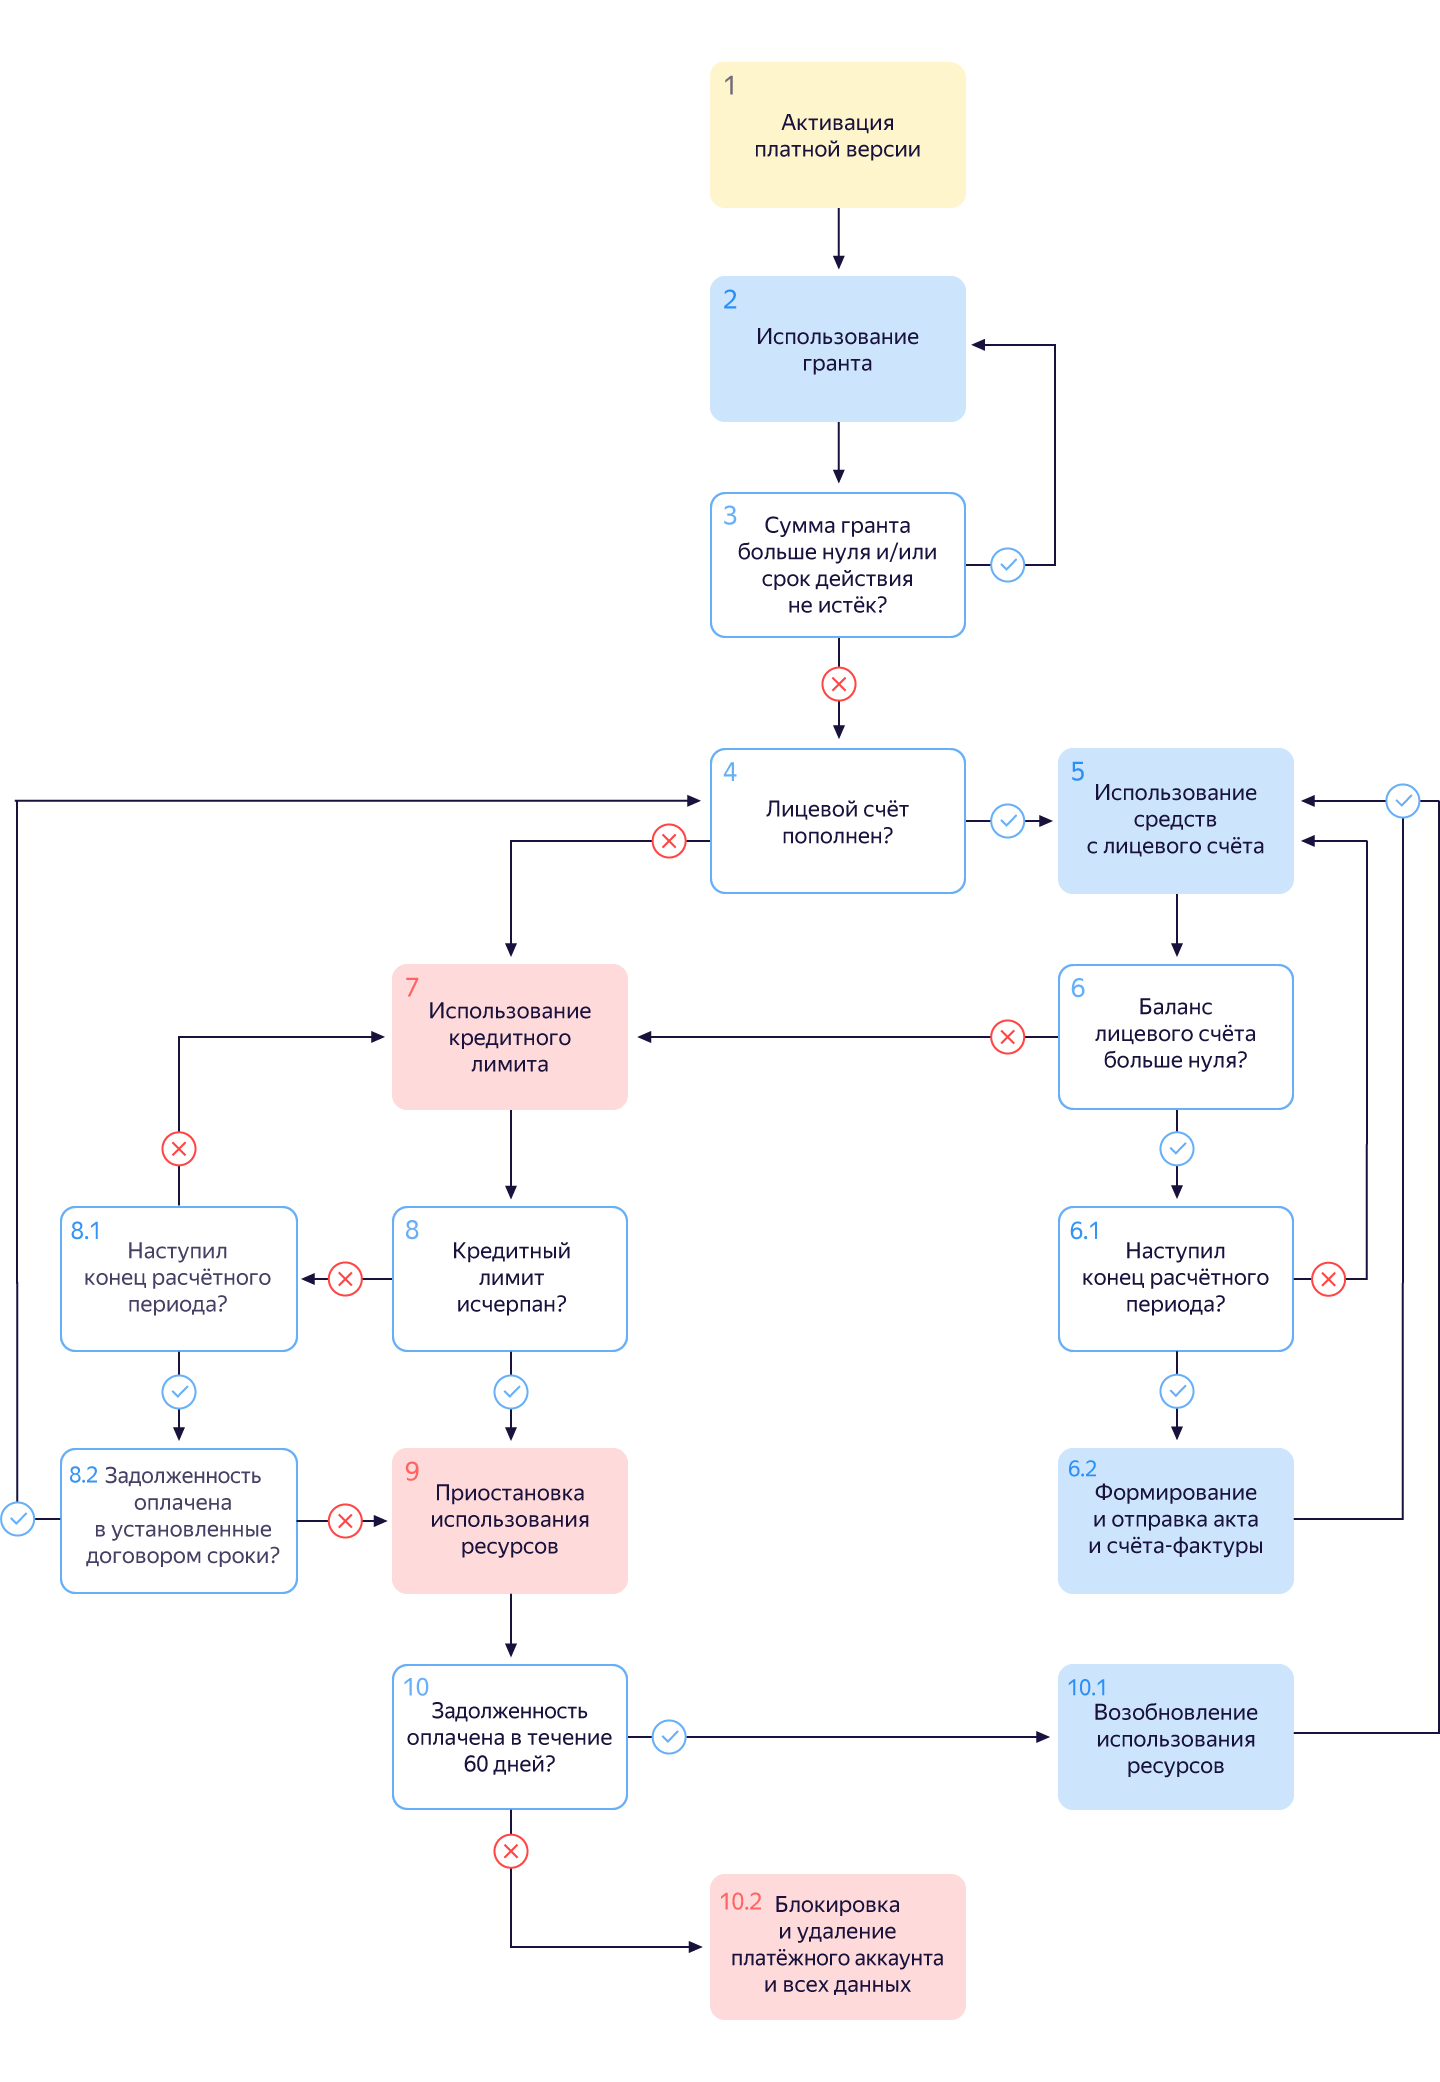
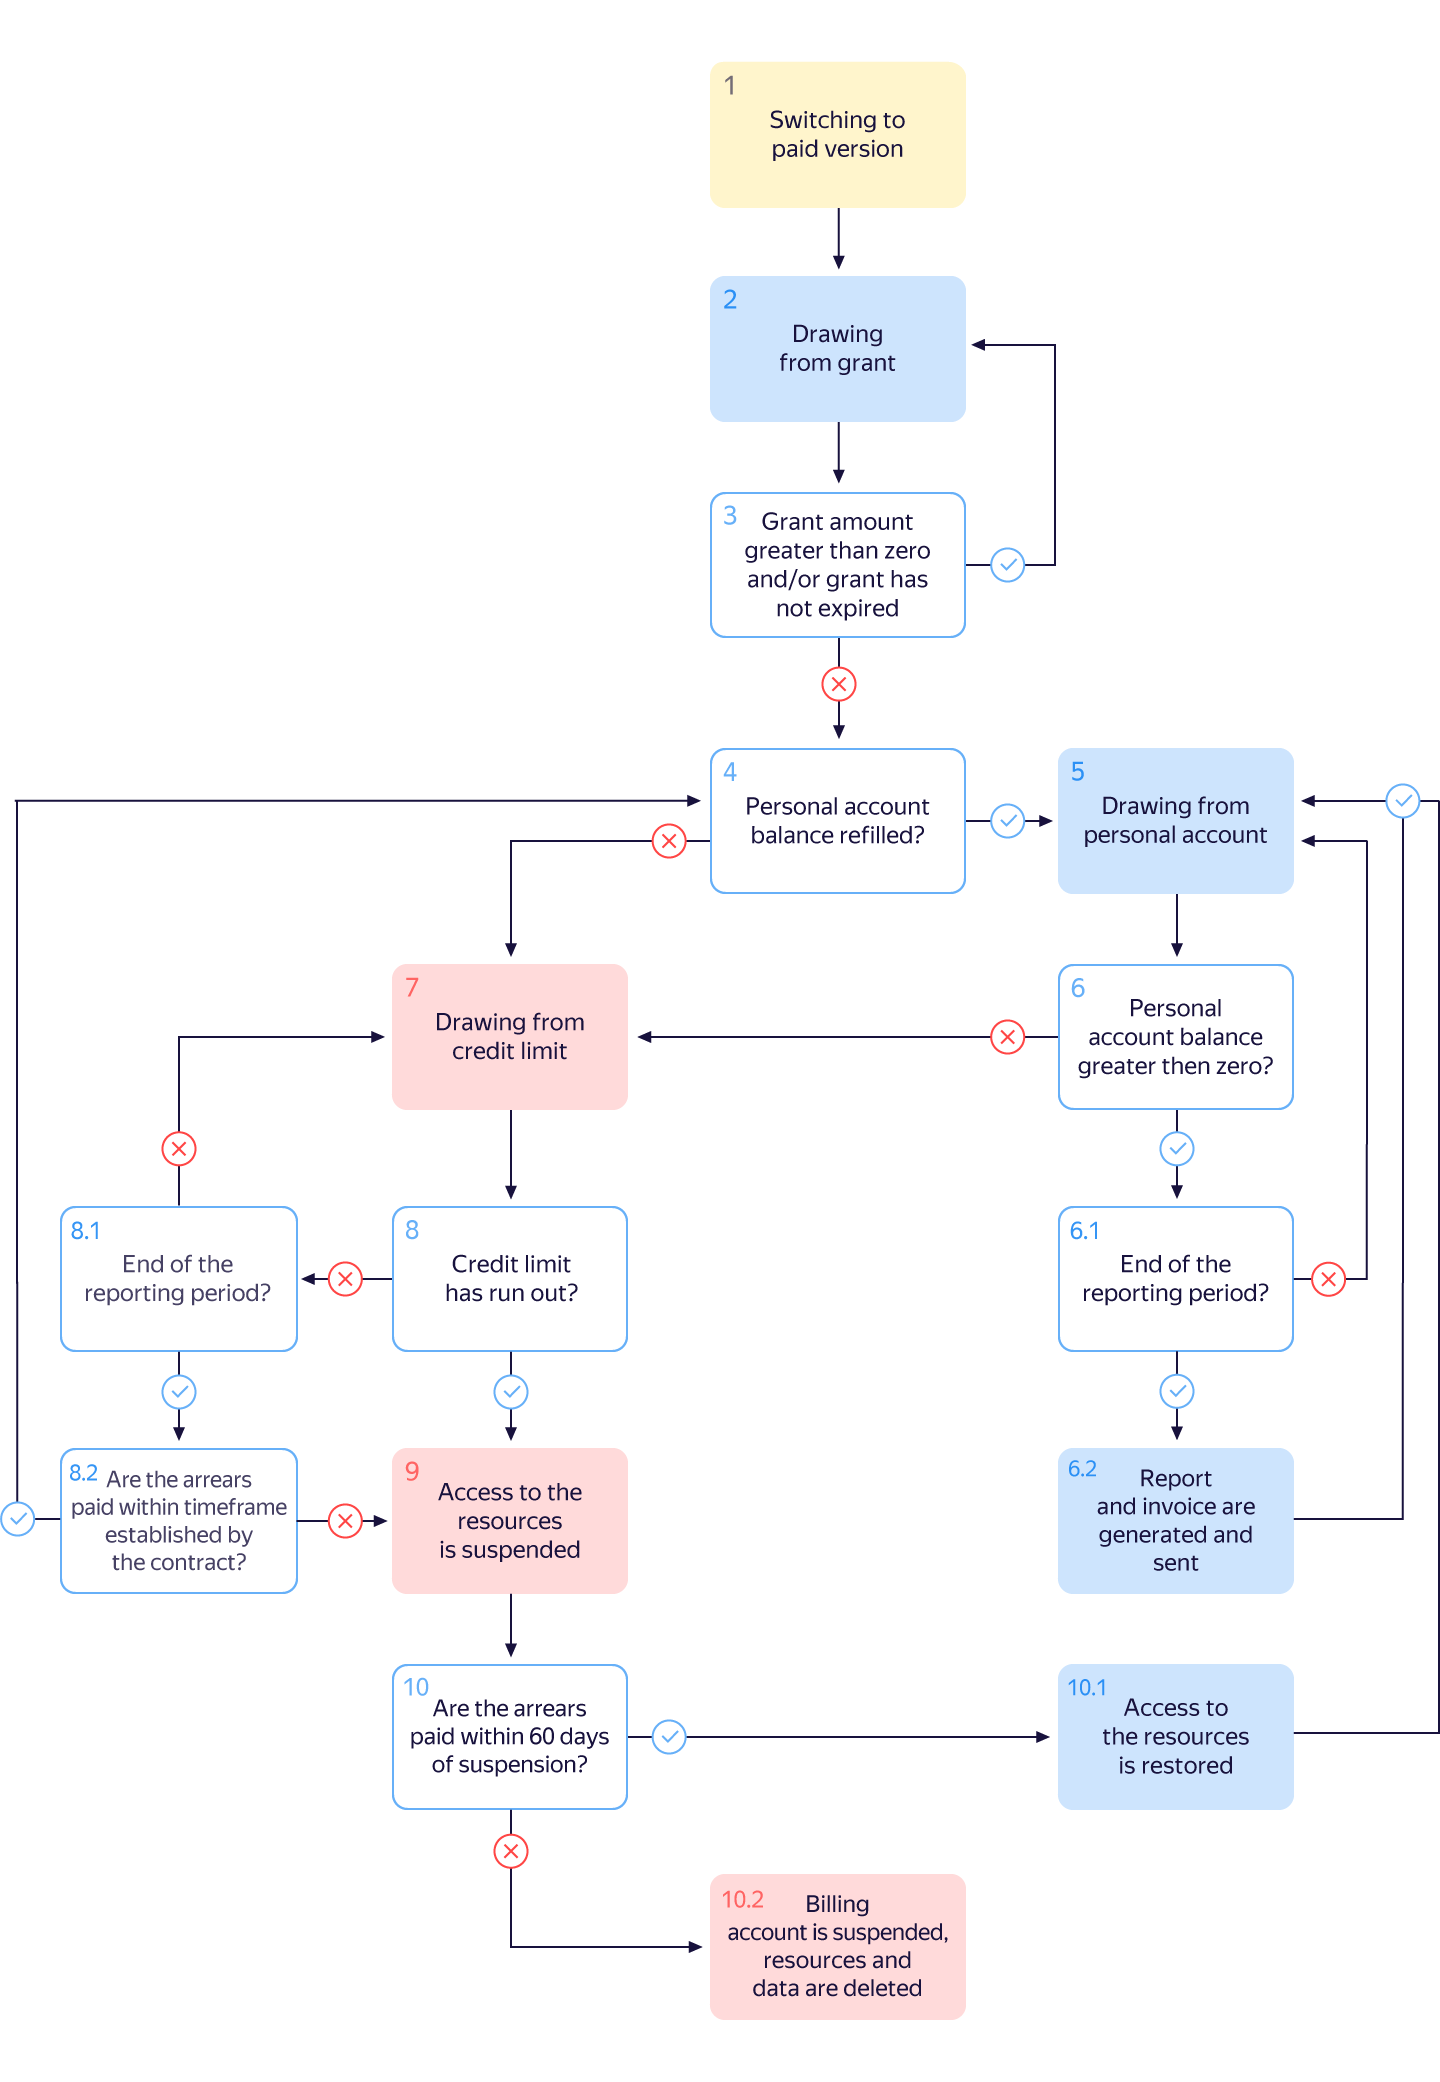
billing assets in en update

diff --git a/en/billing/payment/billing-cycle-business.md b/en/billing/payment/billing-cycle-business.md
@@ -48,7 +48,7 @@ The diagrams show the cycle of issuing and paying bills for businesses, as well 
 
 **[!TAB I use the credit limit]**
 
-![](../_assets/billing-cycle-business-credit.svg)
+![](../_assets/billing-cycle-business-credit.png)
 
 1. You [activate the paid version](../operations/activate-commercial.md) before the end of the trial period.
 <br/>If you did not spend the entire amount of the [initial grant](../concepts/bonus-account.md), you can use the remaining amount after upgrading to the paid version.
